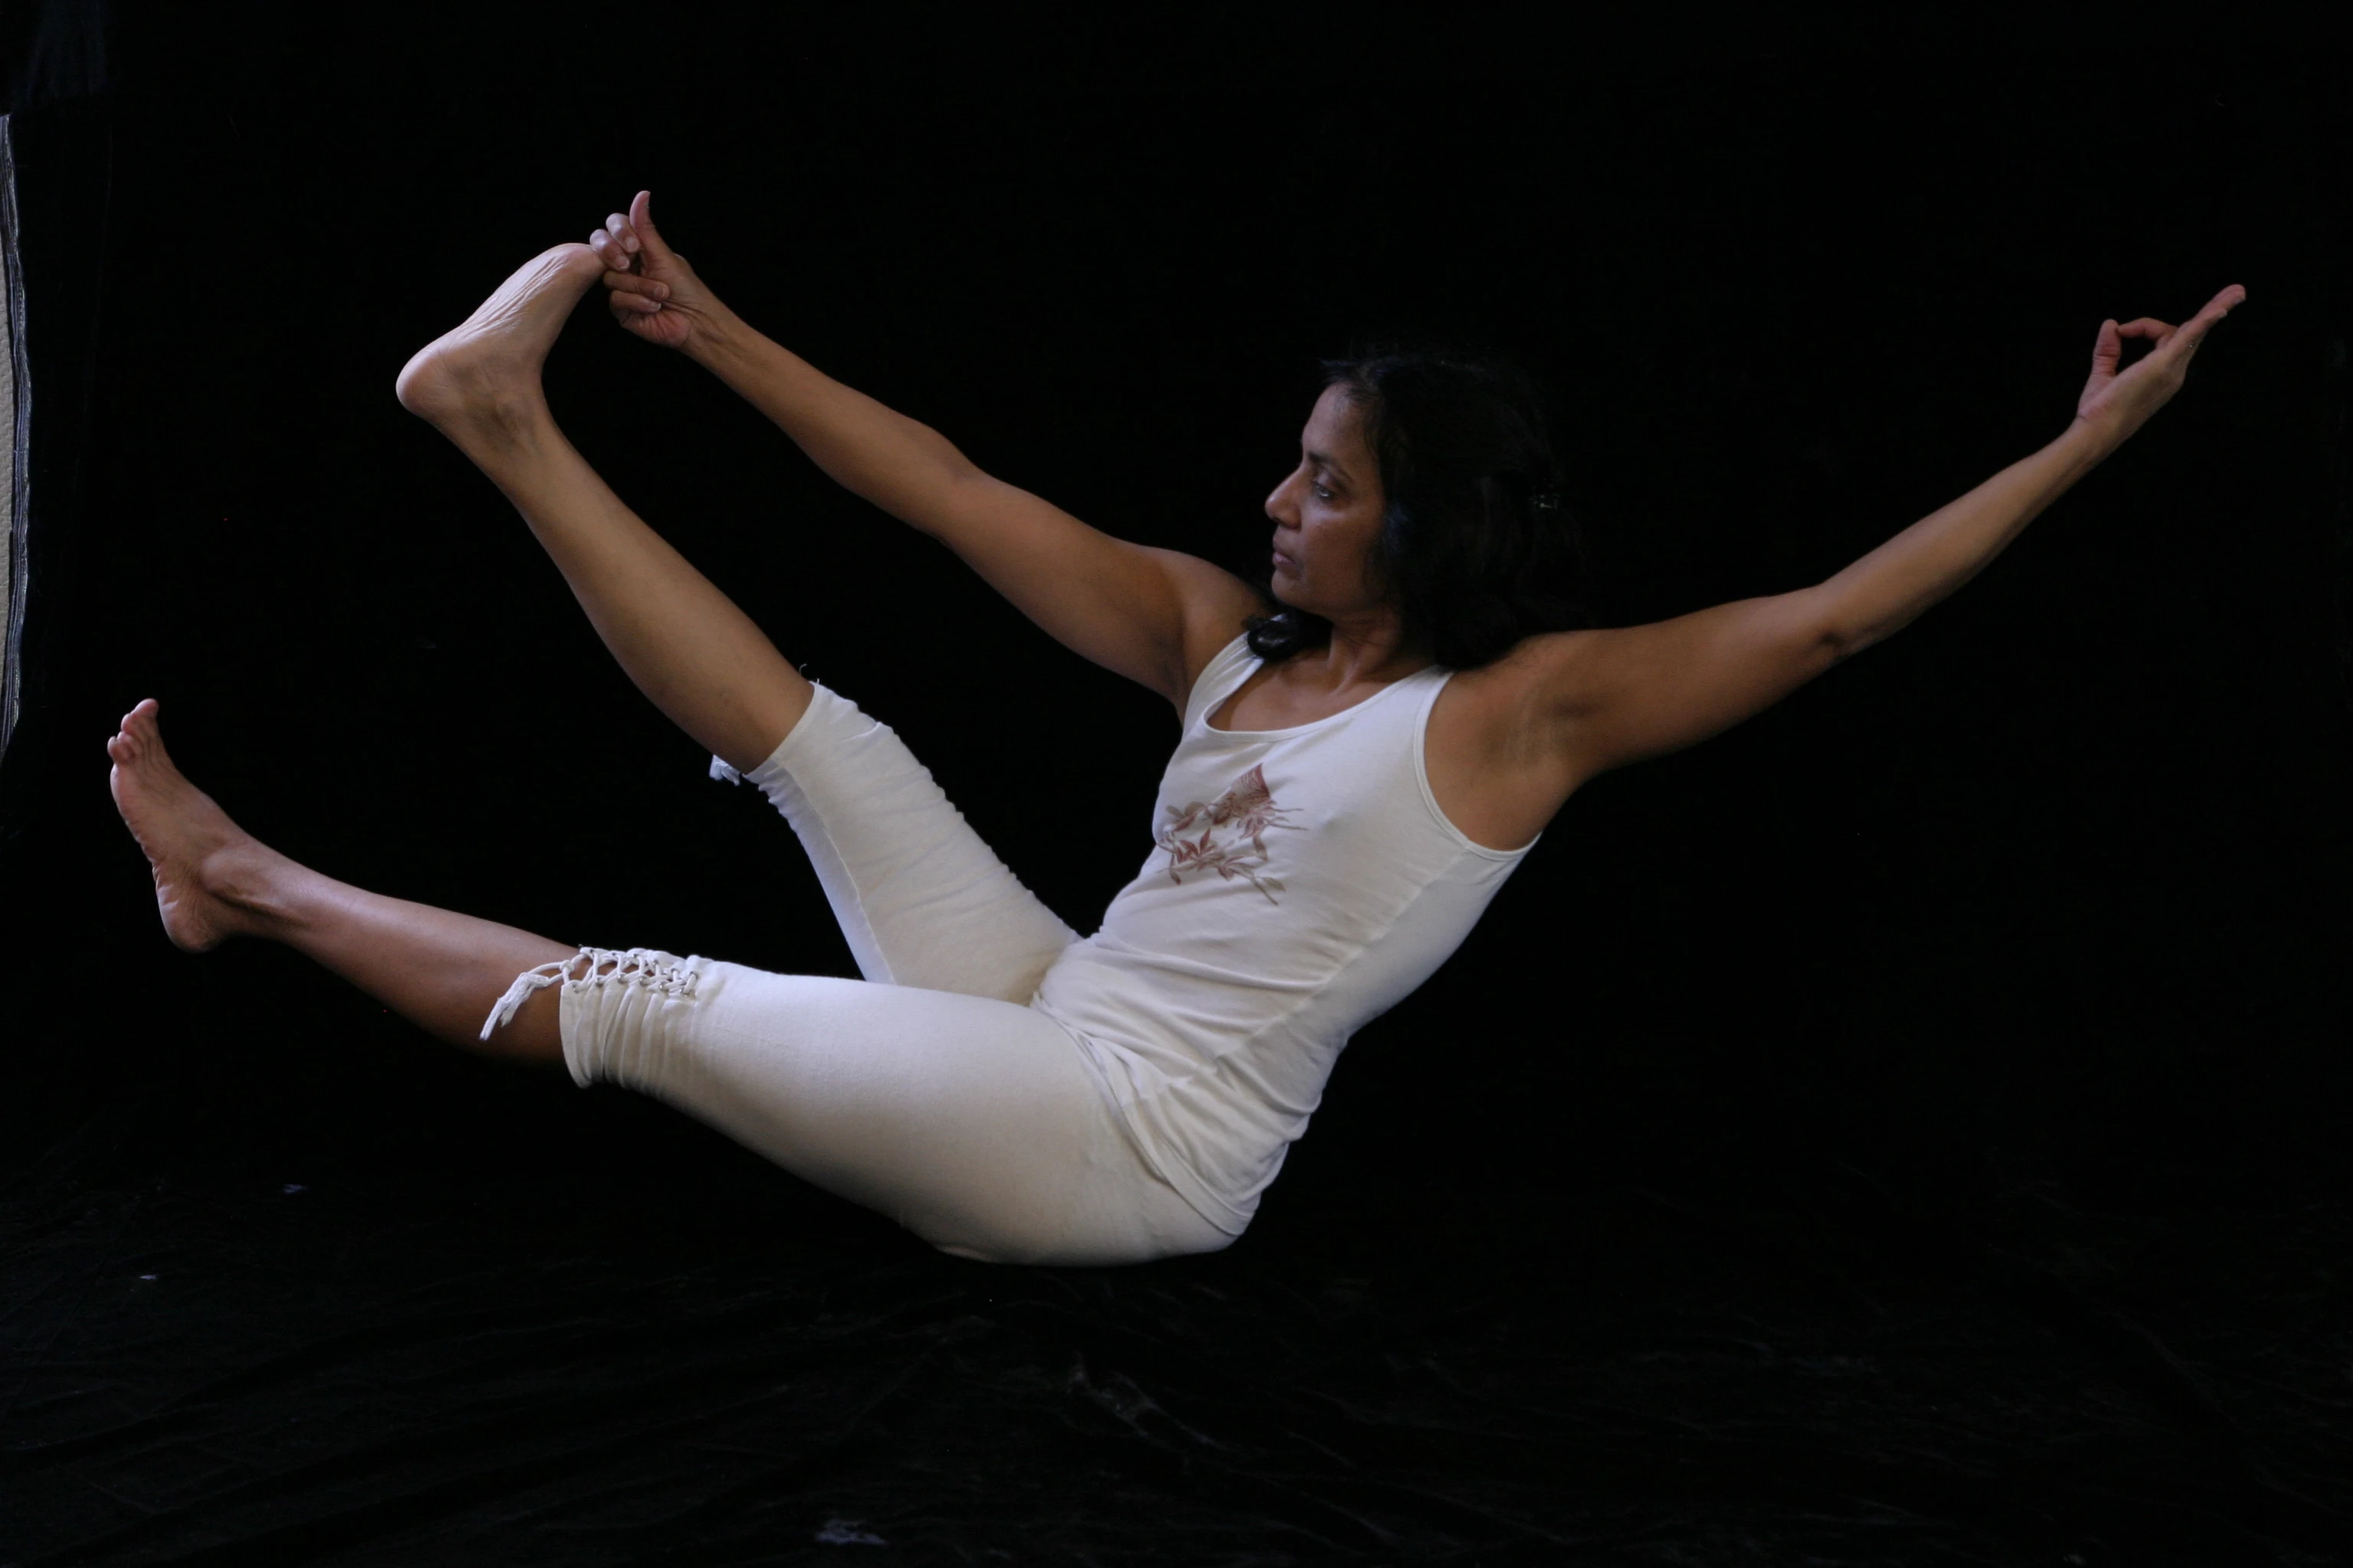
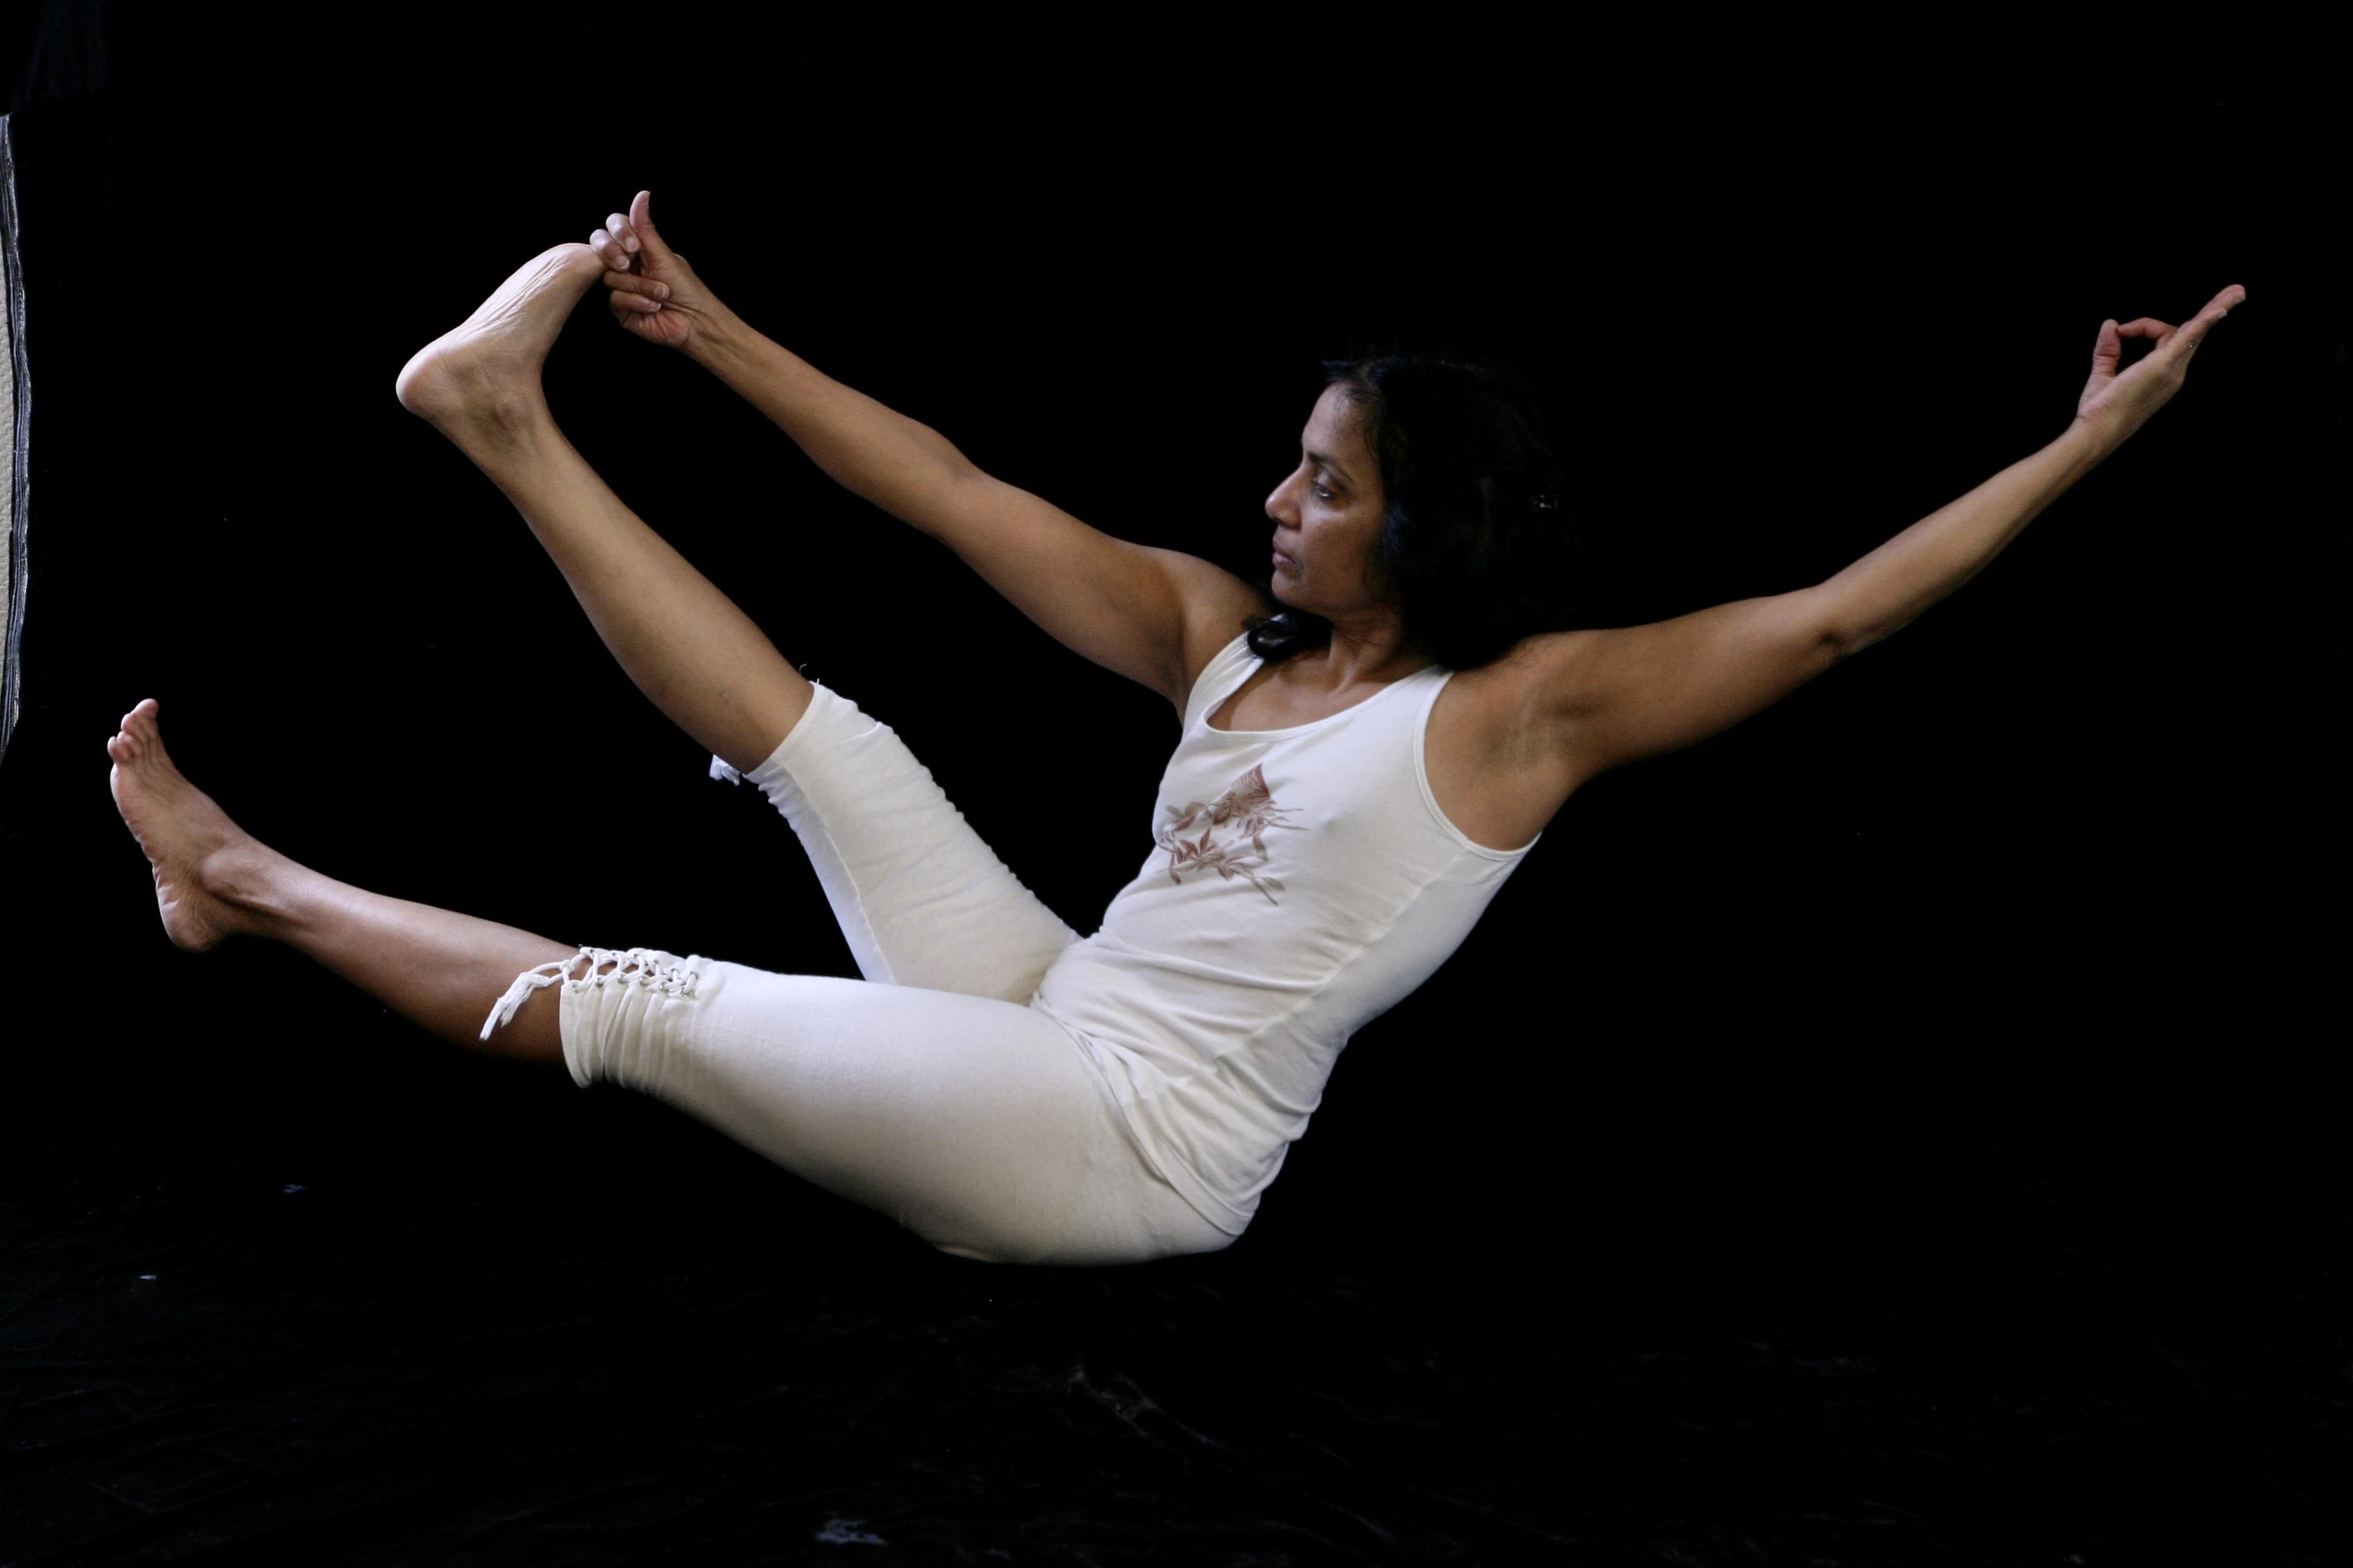
Photos MAJ
Ajout de certaines photos.
Remplacement des photos Ora fond sombre par des photos retraivaillées par Estelle pour éclaircir Ora.
AJouts de photos dans les présentations d'Ora, Eva et Yannick

Changed region(s): [[0.0312, 0.125, 0.9688, 0.8125], [0.0, 0.1875, 0.0312, 0.4375]]

diff --git a/_includes/enseignantes/yannick.html b/_includes/enseignantes/yannick.html
@@ -13,6 +13,8 @@ Cette rencontre humaine et spirituelle a modifié sa vie et a éveillé le dési
 <p>Formation à l'EFYARA (école Française de Yoga Auvergne Rhône-Alpes- Lyon), elle continue de bénéficier de l'enseignement d'Ora, et d'autres professeurs-formateurs de l'école.
 Formée au RYE (Recherche Yoga dans l’éducation), elle anime aussi des ateliers de Yoga auprès du jeune public.</p>
 
+<img src="/assets/img/yannick_03.webp" width="300px" alt="Photo d'Ora Josef-Hay" class="rond-center-profile-picture" />
+
 <h5>Son moteur</h5> 
 
 <p>L'échange, l'énergie et l'ouverture du cœur la guident dans ses pratiques et son enseignement. Que chacun trouve dans la voie du Yoga un apaisement, et une meilleure connaissance de soi. Que chacun puisse pratiquer le Yoga et le laisser infuser au plus profond de son être !</p>

diff --git a/_includes/enseignantes/eva.html b/_includes/enseignantes/eva.html
@@ -15,6 +15,8 @@
 <p>Accompagner chacun vers la gestion autonome de son hygiène de vie, de sa santé et de son développement personnel.
 Le yoga permet de revenir en conscience, de retrouver sa propre nature, de s'écouter et de se respecter.</p>
 
+<img src="/assets/img/eva_04.webp" width="300px" alt="Photo d'Eva Manceau" class="rond-center-profile-picture" />
+
 <h5>Autres</h5> 
 
 <p>Egalement praticienne en massages de bien-être depuis de nombreuses années, Eva pratique divers techniques de massage telles que :</p>

diff --git a/_includes/enseignantes/ora.html b/_includes/enseignantes/ora.html
@@ -21,6 +21,8 @@
   Elle a suivi ces dernières années des séminaires professionels en France auprès des enseignants indiens du KYM (Krishnamacharya Yoga Mandiran à Chenaï - Inde).
 </p>
 
+<img src="/assets/img/ora_03.webp" width="300px" alt="Photo d'Ora JOSEF-HAY" class="rond-center-profile-picture" />
+
 <h5>Son parcours</h5> 
 
 <p>
